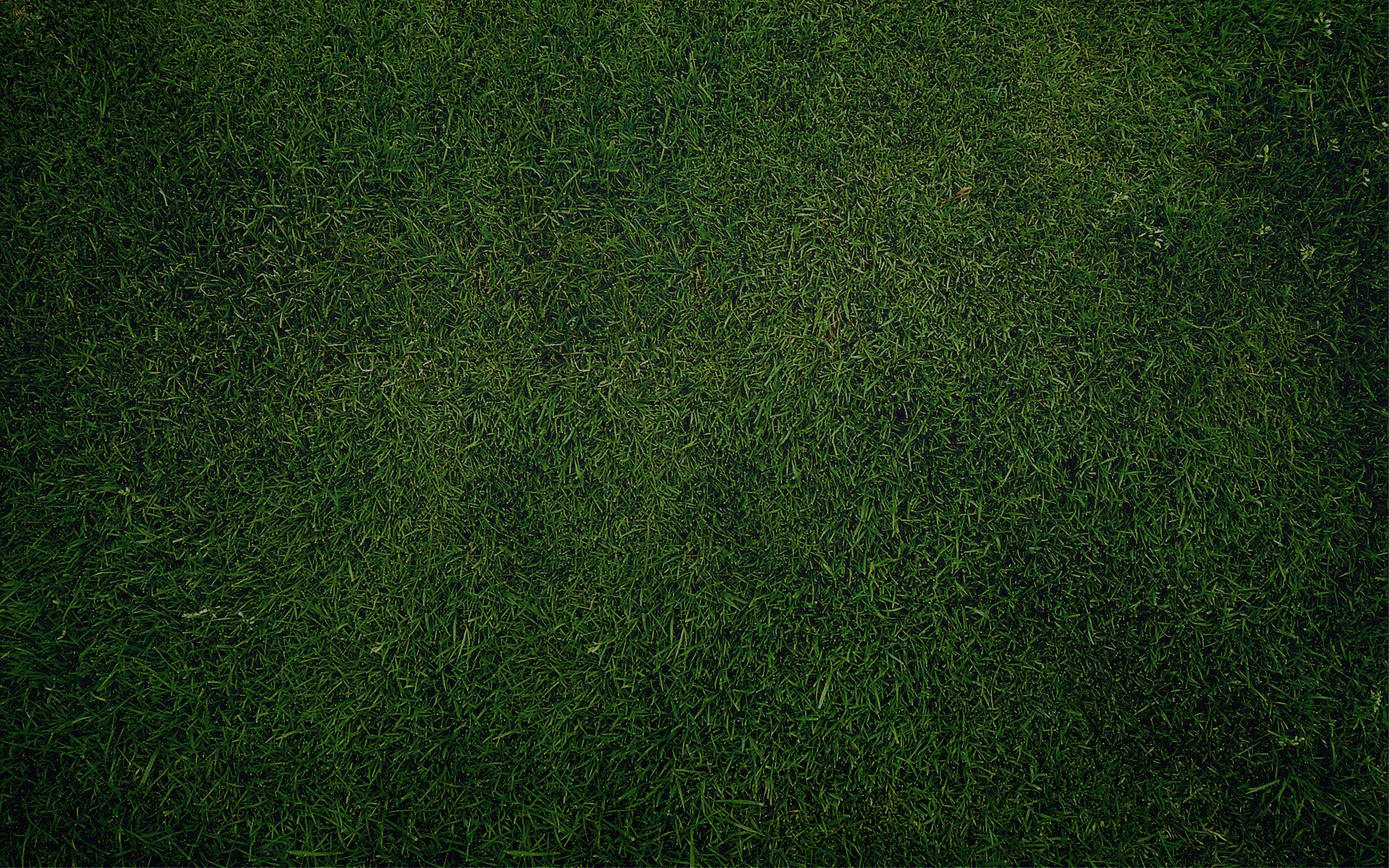
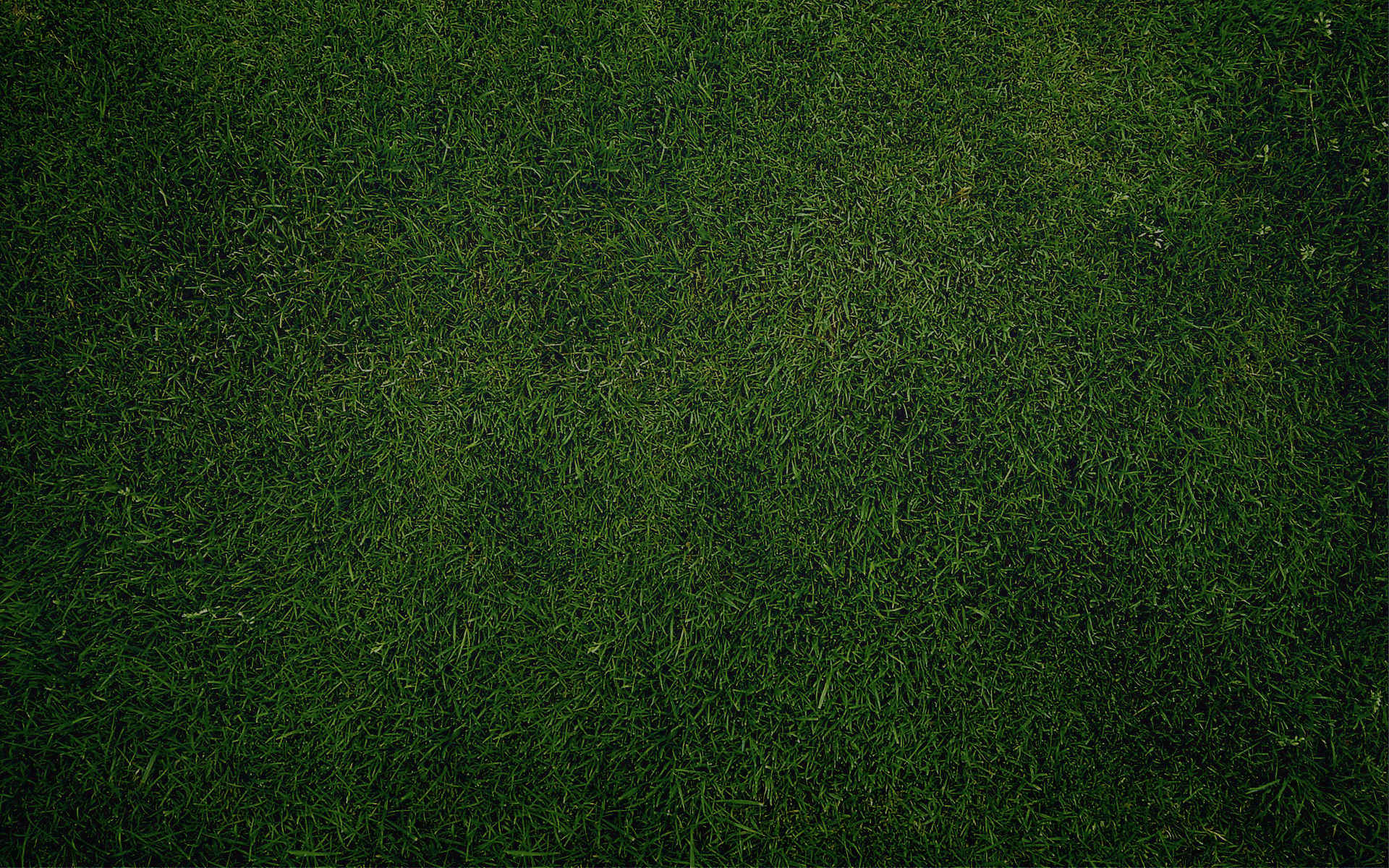
Updated background image size and optimized for mobile

diff --git a/public/stylesheets/sass/layout.sass b/public/stylesheets/sass/layout.sass
@@ -1,16 +1,19 @@
 body
   margin-top: 0
   background-image: url('/images/grass-background.jpg')
+  background-repeat: no-repeat
   margin-left: auto
   margin-right: auto
   width: 65%
 
 .header
   margin-top: 2em
-  display: inline-block
-  width: 781px
+  display: block
+  padding-right: 32px
+  margin-right: auto
+  margin-left: auto
   background: white
-  padding-left: 51px
+  padding-left: 25px
 
 .leaf-image
   display: inline-block
@@ -19,38 +22,34 @@ body
     width: 175px
 
 .logo
+  border-top: 1px solid #ddd
+  border-bottom: 1px solid #ddd
   h1
     font-size: 31.5px
-    border-top: 1px solid #ddd
-    border-bottom: 1px solid #ddd
   display: inline-block
-  margin-left: 5px
-  padding-top: 1.5em
-  padding-left: 10px
+  padding-left: 55px
+  padding-right: 55px
+  margin-top: 1.5em
+  vertical-align: bottom
 
-.contact-details
-  display: inline-block
-  vertical-align: top
-  margin-top: 14px
-  margin-left: 80px
-  p
-    margin: 0
-    color: black
-
-.navbar
-  .nav
-    border-top: 1px solid #DDD
-    width: 88%
-    margin-top: 25px
-  ul
-    .nav-tabs
+.nav
+  border-top: 1px solid #DDD
+  width: 88%
+  margin-top: 25px
+  padding-right: 10%
+ul
+  .nav-tabs
   padding-left: 1em
+  li
+    &:first-child
+      padding-left: 29%
   li
     a
       color: black
 
 .content
   padding-top: 1em
-  background: #F5F5F5
+  background: white
+  padding: 25px 25px 10px 30px
 
 @import homepage

diff --git a/public/stylesheets/sass/homepage.sass b/public/stylesheets/sass/homepage.sass
@@ -1,7 +1,4 @@
 .homepage
-  width: 655px
-  margin-right: auto
-  margin-left: auto
   padding-bottom: 2em
   h1
     opacity: 1
@@ -24,7 +21,7 @@
     .tblleft
       padding-left: 0px
   .carousel
-    width: 600px
+    max-width: 600px
     h3
       color: white
   .carousel-indicators
